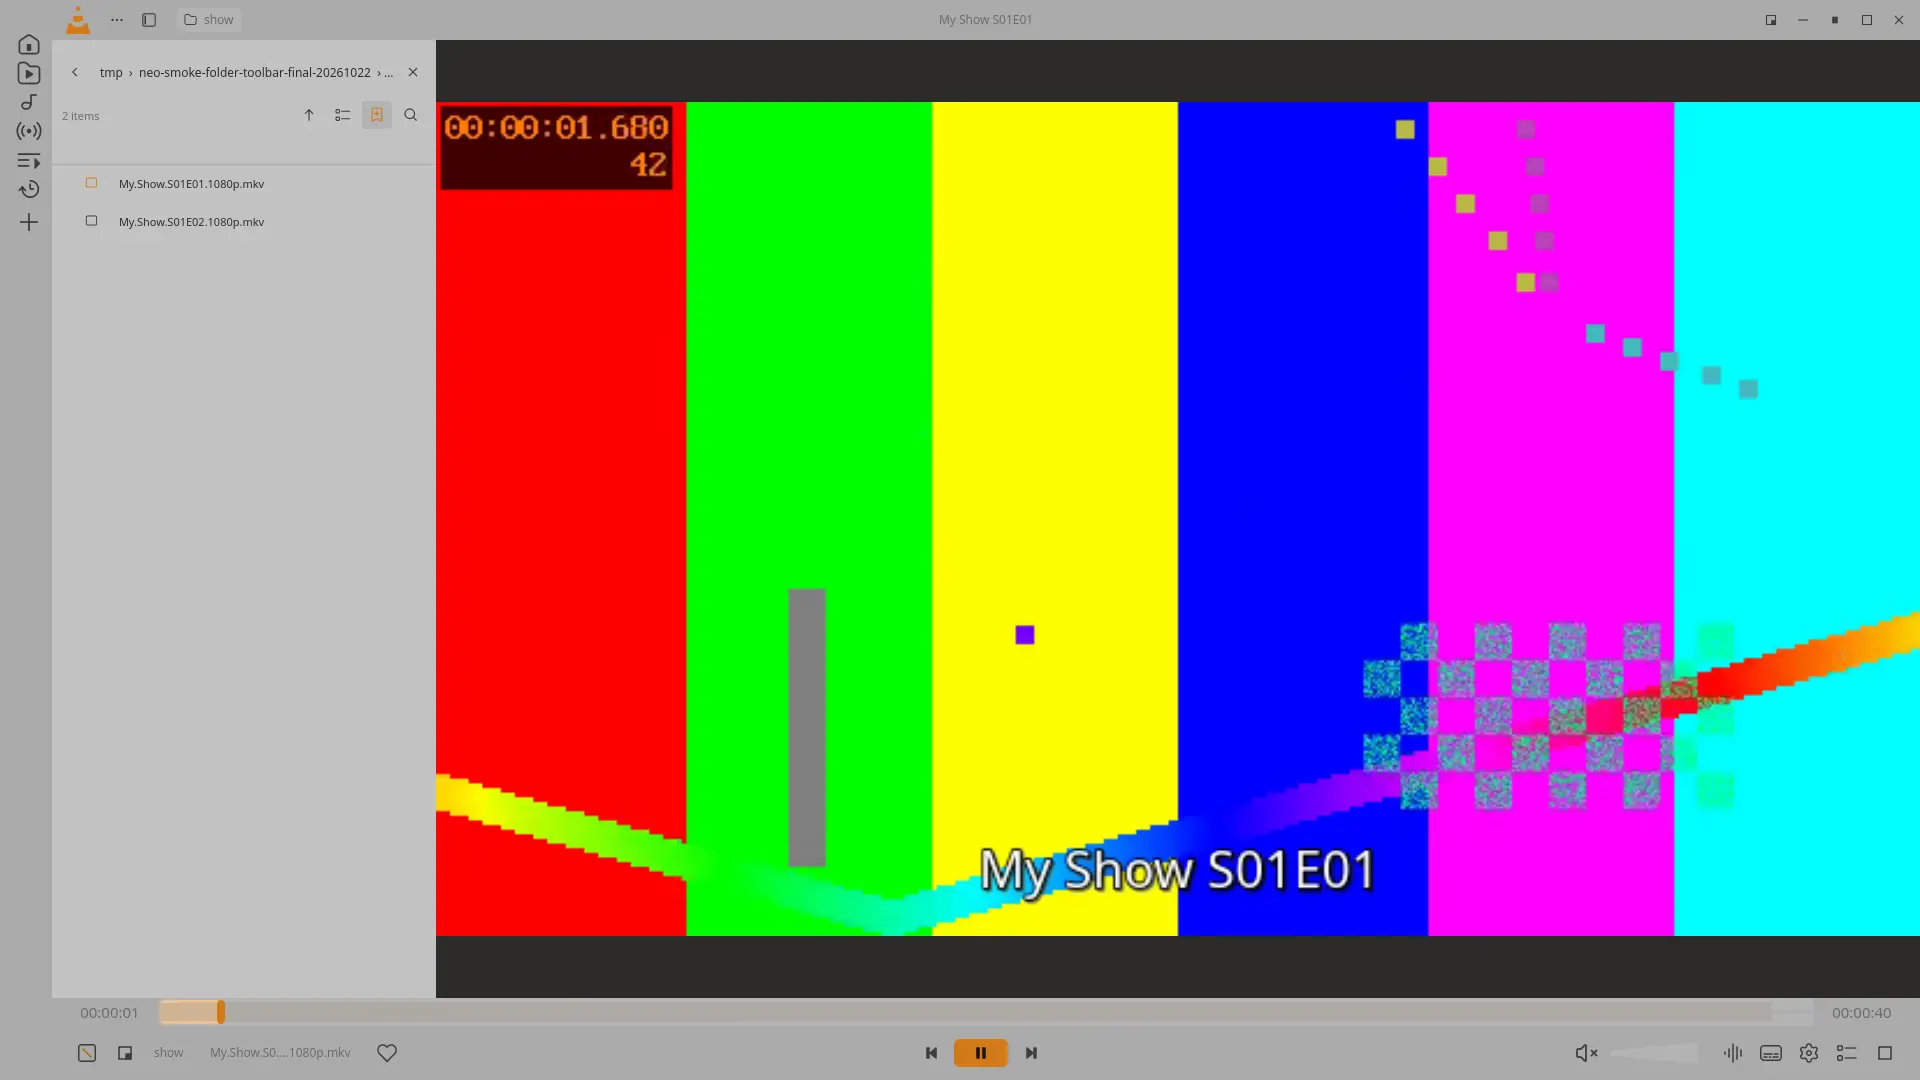
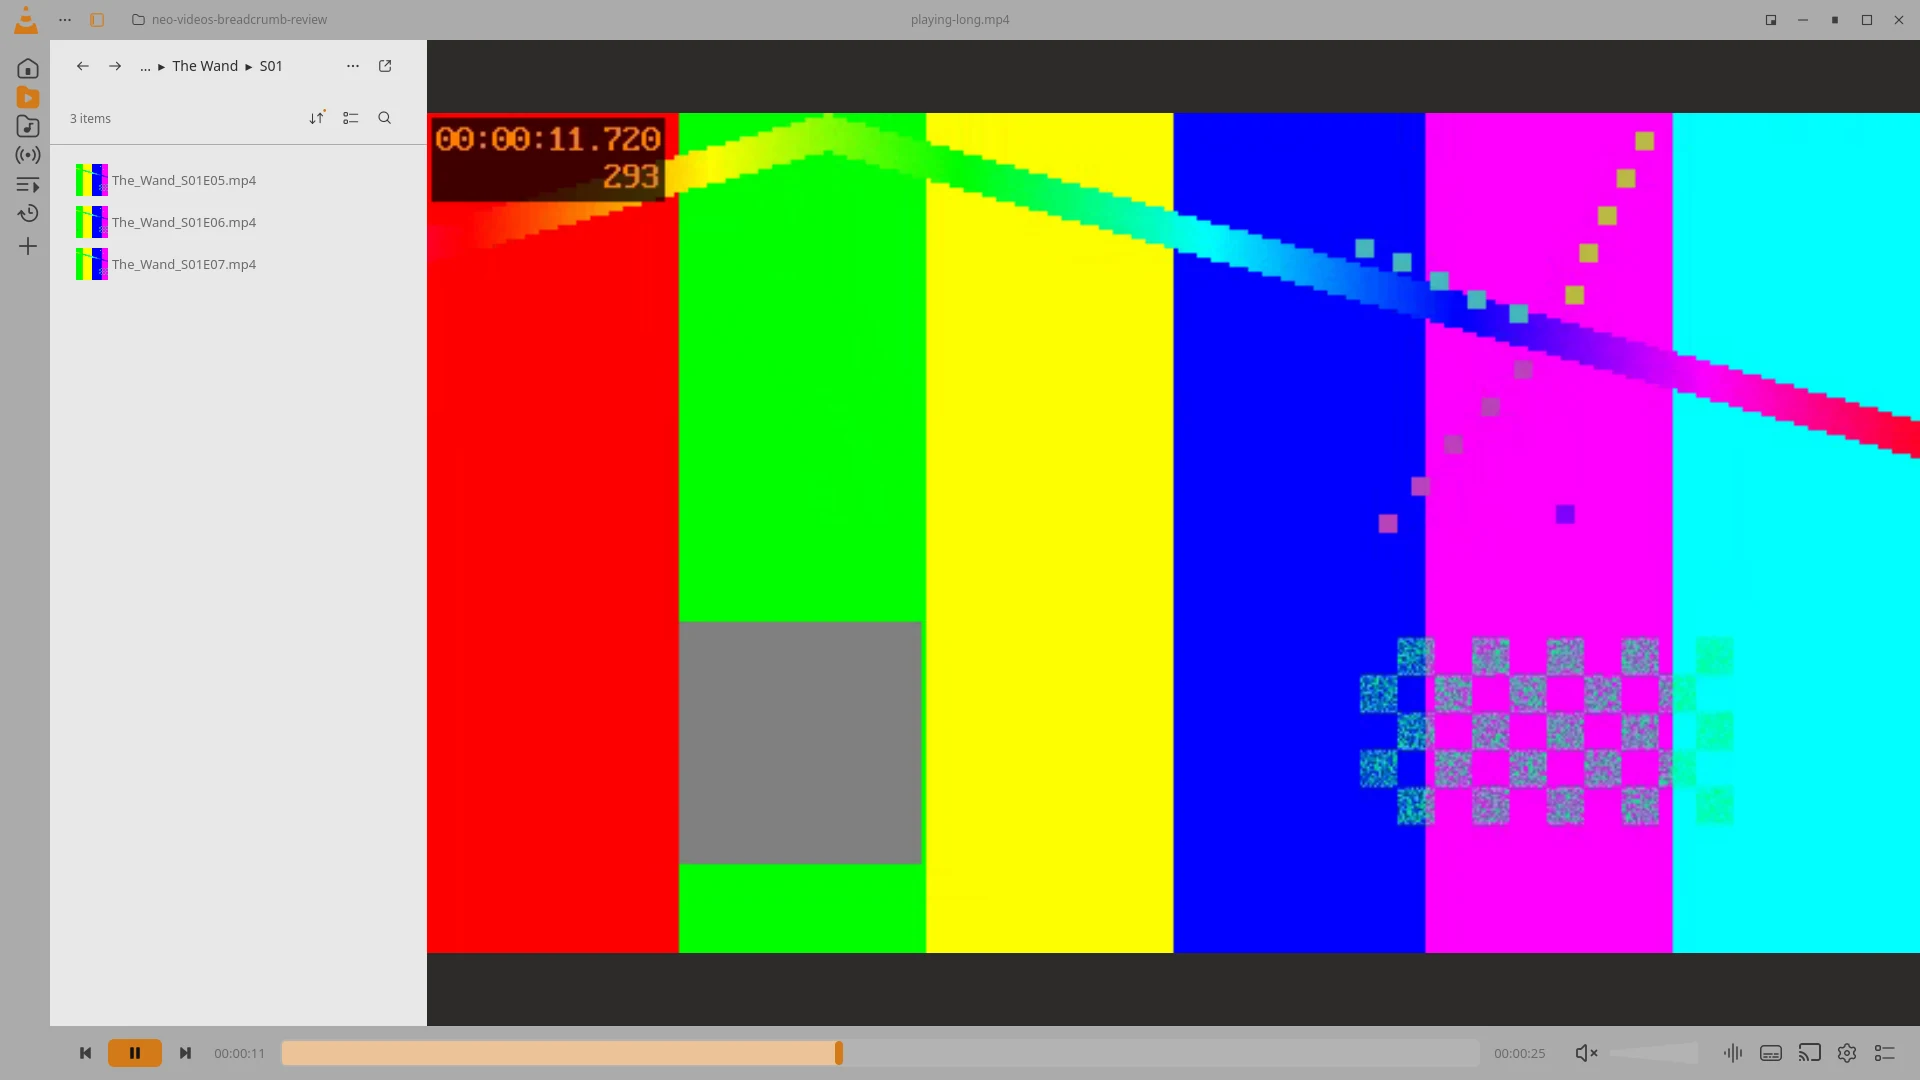
fix: align library side panes with Figma

diff --git a/qml/LibraryPanel.qml b/qml/LibraryPanel.qml
@@ -88,8 +88,14 @@ Rectangle {
         if (win.navigationPage === "videos") {
             const currentPath = platform.localPath(root.folder)
             const videosPath = platform.localPath(StandardPaths.writableLocation(StandardPaths.MoviesLocation))
-            if (currentPath !== videosPath) return currentPath.split("/").filter(Boolean).pop() || "Videos"
-            return "Videos"
+            if (currentPath === videosPath) return "Videos"
+            if (currentPath.startsWith(videosPath + "/")) {
+                const folders = currentPath.slice(videosPath.length + 1).split("/").filter(Boolean)
+                if (folders.length === 1) return "Videos  ▸  " + folders[0]
+                if (folders.length === 2) return folders.join("  ▸  ")
+                return "…  ▸  " + folders.slice(-2).join("  ▸  ")
+            }
+            return currentPath.split("/").filter(Boolean).pop() || "Videos"
         }
         return "Library"
     }
@@ -429,7 +435,7 @@ Rectangle {
                 onTextEdited: mediaLibrary.model.search = text
             }
             IconButton { icon: "sort"; tip: "Sort"; checked: root.musicSideSortByName; onClicked: root.musicSideSortByName = !root.musicSideSortByName }
-            IconButton { icon: "view"; tip: "View options"; checked: root.musicSideCompactView; onClicked: root.musicSideCompactView = !root.musicSideCompactView }
+            IconButton { icon: "list"; tip: "View options"; checked: root.musicSideCompactView; onClicked: root.musicSideCompactView = !root.musicSideCompactView }
             IconButton { icon: root.musicSideSearchOpen ? "close" : "search"; tip: root.musicSideSearchOpen ? "Close search" : "Search"; onClicked: { root.musicSideSearchOpen = !root.musicSideSearchOpen; if (!root.musicSideSearchOpen) mediaLibrary.model.search = "" } }
         }
 
@@ -446,7 +452,12 @@ Rectangle {
             Layout.bottomMargin: visible && !root.figmaSidePanel ? 35 : 0
             Layout.preferredHeight: root.figmaSidePanel ? 52 : 28
             spacing: 4
-            NText { visible: !root.folderSearchOpen; text: root.matchingFiles() + " items"; color: root.figmaSidePanel ? Theme.librarySideText : Theme.textDim; font.pixelSize: 12 }
+            NText {
+                visible: !root.folderSearchOpen
+                text: root.matchingFiles() + (root.matchingFiles() === 1 ? " item" : " items")
+                color: root.figmaSidePanel ? Theme.librarySideText : Theme.textDim
+                font.pixelSize: 12
+            }
             NField {
                 visible: root.figmaSidePanel && root.folderSearchOpen
                 Layout.fillWidth: true
@@ -456,7 +467,8 @@ Rectangle {
             }
             Item { Layout.fillWidth: true; visible: !root.folderSearchOpen }
             IconButton {
-                icon: root.figmaSidePanel ? "sort" : "arrow-up"; tip: "Sort: " + root.sortBy
+                icon: root.figmaSidePanel ? (root.sortBy === "name" ? "sort-active" : "sort") : "arrow-up"
+                tip: "Sort: " + root.sortBy
                 onClicked: root.sortBy = root.sortBy === "name" ? "date" : (root.sortBy === "date" ? "size" : "name")
             }
             IconButton {
@@ -529,18 +541,6 @@ Rectangle {
             }
         }
         Rectangle { Layout.fillWidth: true; height: 1; color: Theme.border }
-
-        Item {
-            objectName: "library-sidepanel-add"
-            visible: root.figmaSidePanel && root.section === "folder"
-            Layout.fillWidth: true
-            Layout.preferredHeight: 36
-            Layout.topMargin: visible && root.figmaSidePanel ? 16 : 0
-            Layout.leftMargin: 25
-            Icon { anchors.left: parent.left; anchors.leftMargin: 1; anchors.verticalCenter: parent.verticalCenter; name: "plus"; size: 16; color: Theme.icon }
-            NText { anchors.left: parent.left; anchors.leftMargin: 36; anchors.verticalCenter: parent.verticalCenter; text: "Add"; font.pixelSize: 13; color: Theme.librarySideText }
-            MouseArea { anchors.fill: parent; cursorShape: Qt.PointingHandCursor; onClicked: root.indexFolder() }
-        }
 
         Item {
             objectName: "music-sidepanel-add-library"
@@ -671,7 +671,7 @@ Rectangle {
             Layout.fillHeight: true
             Layout.leftMargin: root.figmaSidePanel ? 0 : (root.wide ? 12 : 0)
             Layout.rightMargin: root.figmaSidePanel ? 0 : (root.wide ? 12 : 0)
-            Layout.topMargin: root.figmaSidePanel ? 5 : (root.wide && !root.compactFolderSidebar ? 58 : 0)
+            Layout.topMargin: root.figmaSidePanel ? 15 : (root.wide && !root.compactFolderSidebar ? 58 : 0)
             clip: true
             model: files
             boundsBehavior: Flickable.StopAtBounds
@@ -1033,7 +1033,7 @@ Rectangle {
                 onTextEdited: mediaLibrary.model.search = text
             }
             IconButton { icon: "sort"; tip: "Sort"; checked: root.musicSideSortByName; onClicked: root.musicSideSortByName = !root.musicSideSortByName }
-            IconButton { icon: "view"; tip: "View options"; checked: root.musicSideCompactView; onClicked: root.musicSideCompactView = !root.musicSideCompactView }
+            IconButton { icon: "list"; tip: "View options"; checked: root.musicSideCompactView; onClicked: root.musicSideCompactView = !root.musicSideCompactView }
             IconButton { icon: root.musicSideSearchOpen ? "close" : "search"; tip: root.musicSideSearchOpen ? "Close search" : "Search"; onClicked: { root.musicSideSearchOpen = !root.musicSideSearchOpen; if (!root.musicSideSearchOpen) mediaLibrary.model.search = "" } }
         }
 

diff --git a/qml/HomeView.qml b/qml/HomeView.qml
@@ -188,7 +188,7 @@ Rectangle {
                         onTextEdited: { root.searchText = text; root.refreshContent() }
                     }
                     IconButton { icon: "sort"; tip: "Sort"; onClicked: { root.sortByName = !root.sortByName; root.refreshContent() } }
-                    IconButton { icon: "view"; tip: "Toggle compact view"; checked: root.compactCards; onClicked: root.compactCards = !root.compactCards }
+                    IconButton { icon: "list"; tip: "Toggle compact view"; checked: root.compactCards; onClicked: root.compactCards = !root.compactCards }
                     IconButton { icon: root.searchOpen ? "close" : "search"; tip: root.searchOpen ? "Close search" : "Search"; onClicked: { root.searchOpen = !root.searchOpen; if (!root.searchOpen) { root.searchText = ""; root.refreshContent() } } }
                 }
                 Rectangle { Layout.fillWidth: true; height: 1; color: Theme.border; visible: root.sidePanel }
@@ -532,7 +532,7 @@ Rectangle {
                 NText { text: "Home"; font.pixelSize: 13; Layout.fillWidth: true }
                 NText { text: mediaLibrary.indexedCount + " items"; dim: true; font.pixelSize: 11 }
                 IconButton { objectName: "home-sort"; icon: "sort"; tip: root.sortByName ? "Sort by recent" : "Sort by name"; onClicked: { root.sortByName = !root.sortByName; root.refreshContent() } }
-                IconButton { objectName: "home-view"; icon: "view"; tip: root.compactCards ? "Use comfortable cards" : "Use compact cards"; checked: root.compactCards; onClicked: root.compactCards = !root.compactCards }
+                IconButton { objectName: "home-view"; icon: root.compactCards ? "list" : "grid"; tip: root.compactCards ? "Use comfortable cards" : "Use compact cards"; checked: root.compactCards; onClicked: root.compactCards = !root.compactCards }
                 NField {
                     objectName: "home-search"
                     Layout.preferredWidth: Math.min(230, pageScroll.availableWidth * 0.22)

diff --git a/qml/PlaylistsPanel.qml b/qml/PlaylistsPanel.qml
@@ -71,7 +71,7 @@ Rectangle {
                 onTextEdited: root.searchText = text
             }
             IconButton { objectName: "playlist-sort"; visible: !root.searchOpen; icon: "sort"; tip: "Reverse name order"; onClicked: root.reverseSort = !root.reverseSort }
-            IconButton { objectName: "playlist-view"; visible: !root.searchOpen; icon: "view"; checked: root.compactRows; tip: "Toggle compact rows"; onClicked: root.compactRows = !root.compactRows }
+            IconButton { objectName: "playlist-view"; visible: !root.searchOpen; icon: "list"; checked: root.compactRows; tip: "Toggle compact rows"; onClicked: root.compactRows = !root.compactRows }
             IconButton { objectName: "playlist-search"; visible: !root.searchOpen; icon: "search"; tip: "Search playlists"; onClicked: root.searchOpen = true }
             IconButton { objectName: "playlist-search-close"; visible: root.searchOpen; icon: "close"; tip: "Close search"; onClicked: { root.searchOpen = false; root.searchText = "" } }
         }

diff --git a/qml/Main.qml b/qml/Main.qml
@@ -1004,8 +1004,8 @@ ApplicationWindow {
         NavigationRail {
             id: navigationRail
             anchors.left: parent.left
+            anchors.top: topBar.bottom
             anchors.bottom: parent.bottom
-            y: topBar.y + topBar.height
             currentPage: win.navigationPage
             shown: win.sideNavigationShown
             musicCategoryActive: libraryPanel.musicSidePage === "categories"

diff --git a/docs/figma-parity.md b/docs/figma-parity.md
@@ -92,3 +92,7 @@ For a new Figma screen, record the exact frame name and node ID, intended behavi
 Focused side-panel comparison (2026-10-24): the authenticated browser was used to inspect Player node `187:328` (Playlists), node `4778:25123` (Music › Songs › My Songs), and the Home side pane in the prototype. At the 1920×1080 frame scale, the panel and navigation rail widths match the current 377 px and 50 px layout. The Music track list's cover and title were visibly too far left compared with Figma; `LibraryPanel.qml` now uses a 36 px left inset and 6 px cover-to-title gap. An offscreen capture with a temporary two-track fixture confirms the cover begins at x=86 and title at x=123, matching Figma after scaling. In Home, Figma's "Frequently Visited" sections are now ordered using persisted open counts, with most recently opened as the tie-breaker; playlist labels omit file extensions as in the reference. A 1920×1080 runtime capture confirms the seeded folder and playlist orders and clean playlist labels. Visit history is capped at 100 paths per section. Opening a playlist through a row click and its double-click sequence is deduplicated to avoid sending the same playlist twice. The implementation capture is [`home-sidebar.png`](screenshots/home-sidebar.png); its generated color bars and tagged demo tracks are fixture content, not Figma artwork. Album, artist and genre detail states still need a like-for-like comparison.
 
 Navigation chrome follow-up (2026-10-24): comparison against Home node `6261:15078` and Music node `4778:25123` showed the rail background and a Back button occupying the title-bar row, which pushed the VLC logo right by the rail width. The title bar now spans the full window, and the rail begins immediately below it; its icons align to the Figma row start, with Back remaining in the pane/page header. The Music capture at 1920×1080 shows the 377 px pane and 50 px rail, and the closed-state capture reports rail width 0, `visible=false`, and title-bar x=0. A refreshed seeded Home capture shows three video rows, three indexed music rows, three frequent folders and two playlists in the reference order. The capture uses generated color-bar videos and metadata-tagged audio; their thumbnail and cover art differ from Figma's sample media. A fresh Playlists comparison confirms its 52/52 px header rows, divider and 42 px playlist row pitch; « Create playlist » and playlist labels now share the category text column at 62 px from the pane edge. The implementation capture is [`playlists-sidebar.png`](screenshots/playlists-sidebar.png). An Albums probe with three tracks grouped into one album exposed a stale toolbar count; binding it to the model's notifying `count` property now keeps it at `1 item` while the row reports `3 tracks`.
+
+Videos side-pane follow-up (2026-10-24): a fresh comparison against Player – Light node `2425:13624` showed the folder pane must begin its file rows directly after the count/sort/view/search toolbar; the extra « Add » row shifted every item down by 52 px. That row is removed from folder browsing, the list top inset is 15 px, and the first 32×32 thumbnail aligns with Figma's first row at 1920×1080. The nested breadcrumb now retains its ancestor context (`… ▸ The Wand ▸ S01`), the view control uses the Figma list icon, and the default name sort displays `sort-active`. Folder counts now use the singular `item` label. The same review caught that the 50 px navigation rail was laid out below the window: simultaneous `y` and bottom anchoring had pushed its buttons off-screen while leaving the space reserved. Anchoring the rail between the titlebar and window bottom restores the visible icons and selected Videos state; the closed state still collapses the rail to 0 px. [`player-light-sidebar.webp`](screenshots/player-light-sidebar.webp) is refreshed with the local 1920×1080 output using generated test video; all three folder thumbnails reached the ready state before capture. Runtime checks cover the Videos root, one-level, two-level and deeper breadcrumbs, and a 560×340 resize keeps the 300 px side pane and elides the breadcrumb without collisions. The generated thumbnails match size and placement, but their content differs from Figma's media artwork; direct color sampling from the selected Figma editor frame also remains unavailable because of its overlay.
+
+Side-toolbar SVG audit (2026-10-24): zooming Figma's Playlists and Videos controls showed the second toolbar button uses `list.svg` (outlined squares with lines), while Neo had been showing `view.svg` (checkmarks with lines). Playlists, Music and Home side panes now use the matching list glyph; the full Home page uses the grid glyph shown in its wider layout. The Home and Playlists implementation captures were regenerated after restoring the shared navigation rail: [`home-sidebar.png`](screenshots/home-sidebar.png) and [`playlists-sidebar.png`](screenshots/playlists-sidebar.png). The Figma Playlists pane lists `Cool Songs` before `Anime to Watch`; the local pane sorts actual playlist files by name, so its fixture order differs while the row styling and layout match.

diff --git a/README.md b/README.md
@@ -227,7 +227,7 @@ episodes. A shortcut to search OpenSubtitles for the current title is included.
 <p>
   <img src="docs/screenshots/hidden-ui.webp" alt="Hide UI mode: only the video, controls appear near the edges" width="49%">
   <img src="docs/screenshots/light-theme.webp" alt="VLC Neo light theme with a blue accent colour" width="49%">
-  <img src="docs/screenshots/player-light-sidebar.webp" alt="Light player with the compact folder sidebar and its two-row toolbar" width="49%">
+  <img src="docs/screenshots/player-light-sidebar.webp" alt="Light player with the Videos side panel, navigation rail, folder breadcrumb and toolbar" width="49%">
 </p>
 
 **Music view and home screen**
